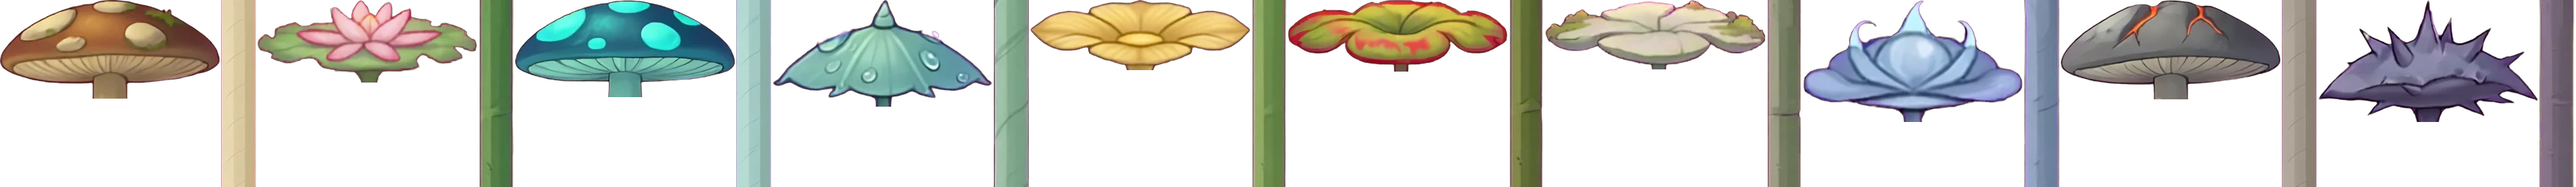
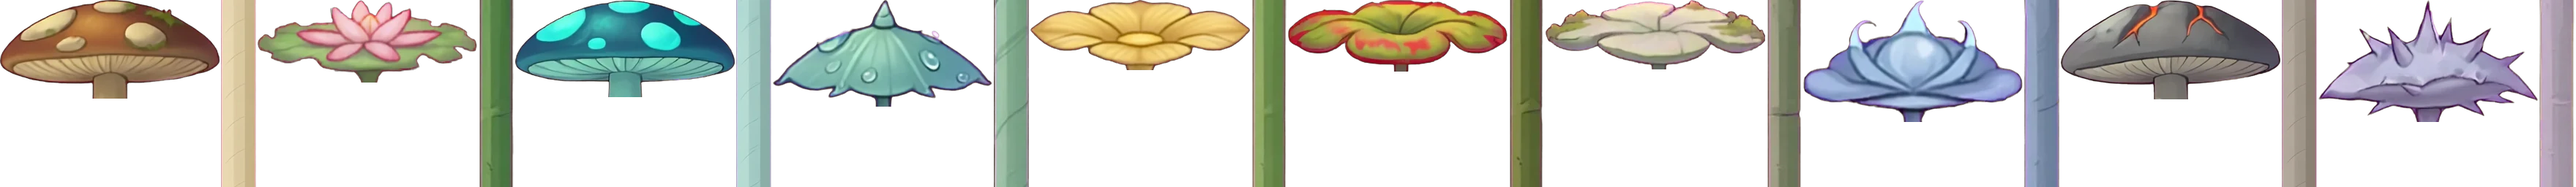
World 10's thistle lifted so it reads on the storm (packbounce lift)
Claude-Session: https://claude.ai/code/session_01FhBbYMb4PGpZ7nUd2Eyre1

Changed region(s): [[0.875, 0.0, 1.0, 1.0]]

diff --git a/tools/art/hfground/packbounce.py b/tools/art/hfground/packbounce.py
@@ -25,6 +25,14 @@ frames = {}
 for sp, pk in PICKS.items():
     wspan = pk.get('span', 1.1)
     cap = depurple(key(Image.open(raw / f"{pk['cap']}.webp"), main_only=True), edge_only=1)
+    # (`lift`: brighter, for a dark plant on a dark stage: World 10's iron thistle on its storm, the lead's review)
+    def lifted(im, k=pk.get('lift', 1.0)):
+        if k == 1.0:
+            return im
+        a = np.asarray(im).astype(np.float32)
+        a[..., :3] = 255 * (a[..., :3] / 255) ** (1 / k) * min(1.15, k)
+        return Image.fromarray(np.clip(a, 0, 255).astype(np.uint8), 'RGBA')
+    cap = lifted(cap)
     cap = cap.crop(cap.getbbox())
     a = np.asarray(cap)[..., 3] > 128
     # the cap: rows down to where the solid narrows to the stalk (the widest row's span, then the first row below it under 40% as wide)
@@ -48,7 +56,7 @@ for sp, pk in PICKS.items():
     cells.append((f'cap-{sp}', cap, {'cw': round((xs.max() - xs.min()) / a.shape[1], 4), 'cx': round((xs.min() + xs.max()) / 2 / a.shape[1], 4),
                                      'sx': round((sx0 + sx1) / 2 / a.shape[1], 4), 'sw': round((sx1 - sx0) / a.shape[1], 4),
                                      'rim': round(rim * s / cap.height, 4), 'span': wspan}))
-    st = depurple(key(Image.open(raw / f"{pk['stalk']}.webp")), edge_only=1)
+    st = lifted(depurple(key(Image.open(raw / f"{pk['stalk']}.webp")), edge_only=1))
     bb = st.getbbox()
     st = st.crop((0, bb[1], st.width, bb[3])).rotate(90, expand=True)
     k = 48 / st.width
